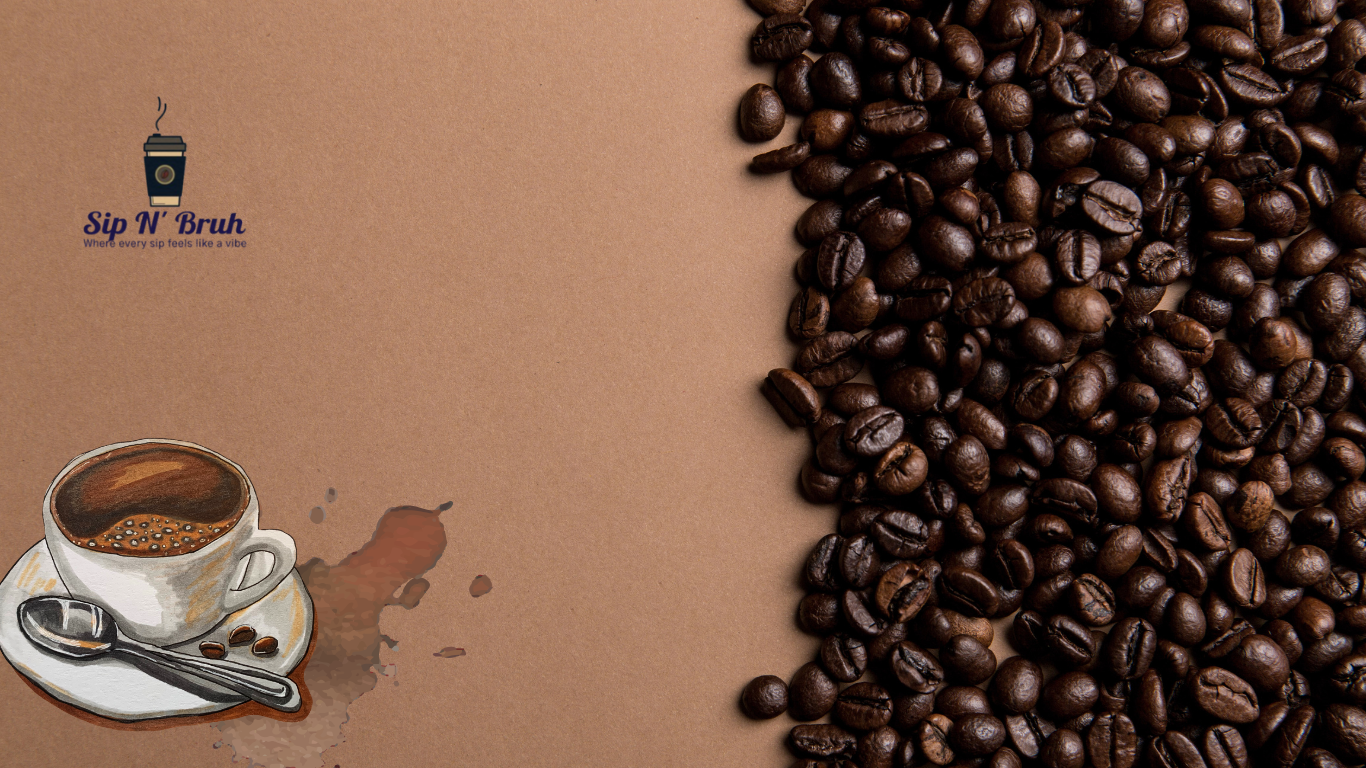
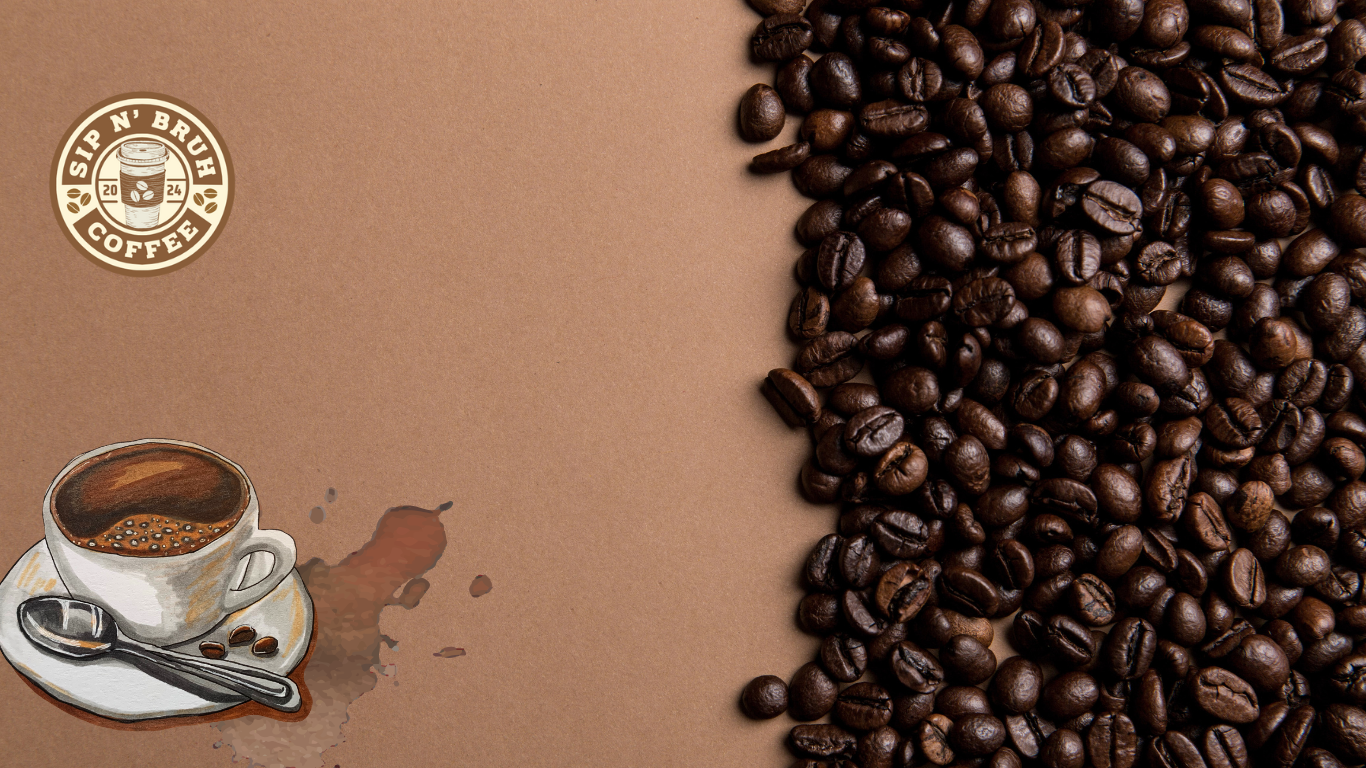
partially done with the menu

Changed region(s): [[0.0307, 0.0938, 0.1845, 0.375]]

diff --git a/menu.css b/menu.css
@@ -1,0 +1,157 @@
+* {
+  padding: 0;
+  margin: 0;
+  box-sizing: border-box;
+  font-family: "Poppins", serif;
+}
+
+body {
+  max-height: 100vh;
+  background-color: #e7e1d9;
+  overflow: hidden;
+}
+
+header {
+  position: absolute;
+  top: 0;
+  right: 0;
+}
+
+a {
+  text-decoration: none;
+}
+
+nav ul {
+  display: flex;
+  align-items: center;
+  justify-content: right;
+  list-style: none;
+  padding: 2rem 5rem;
+}
+
+nav ul li {
+  margin-right: 3rem;
+  position: relative;
+}
+
+nav ul li a {
+  color: #000;
+  font-weight: 700;
+  font-size: 1.5rem;
+}
+
+nav ul li::after {
+  content: "";
+  position: absolute;
+  bottom: 0;
+  left: 50%;
+  transform: translate(-50%);
+  width: 0%;
+  height: 3px;
+  border-radius: 2px;
+  background-color: #9d6d4d;
+  transition: all 500ms ease;
+}
+
+nav ul li:hover::after {
+  width: 100%;
+}
+
+nav ul li.active::after {
+  width: 100%;
+}
+
+main {
+  display: flex;
+}
+
+main section {
+  flex-basis: 50%;
+}
+
+main section:first-of-type > img {
+  display: block;
+  height: 100vh;
+  width: 100%;
+  object-fit: cover;
+}
+
+main section:last-of-type {
+  padding: 15rem 5rem;
+}
+
+section:last-of-type > div {
+  width: 90px;
+}
+
+section:last-of-type > div {
+  font-weight: 300;
+  font-size: 1.2rem;
+}
+
+section:last-of-type > div > p:first-of-type {
+  padding-left: 15px;
+}
+
+section:last-child > div > p:last-of-type {
+  text-align: right;
+  padding-right: 10px;
+}
+
+div.line {
+  width: 100%;
+  height: 0.0625rem;
+  background-color: #976a48;
+  transform: rotate(-30deg);
+}
+
+h1 {
+  font-size: 3.5rem;
+  font-family: "Playfair Display", serif;
+  font-weight: 900;
+  margin-block: 2rem;
+}
+
+section:last-child > p {
+  font-weight: 300;
+  line-height: 2rem;
+}
+
+button {
+  background-color: #be986d;
+  border: none;
+  padding: 1rem 3rem;
+  font-weight: 700;
+  text-transform: uppercase;
+  margin-top: 3rem;
+  transition: all 500ms ease;
+}
+
+button:hover {
+  cursor: pointer;
+  background-color: #000;
+  color: #fff;
+}
+
+.btn-container {
+  position: absolute;
+  bottom: 0;
+  right: 0;
+  display: flex;
+  gap: 2rem;
+  padding: 2rem 5rem;
+}
+
+.btn-container button {
+  background-color: transparent;
+  padding: 0;
+}
+
+.btn-container button:hover {
+  cursor: pointer;
+  transform: scale(1.2);
+}
+
+#prev:hover {
+  transform: scale(1.1);
+}

diff --git a/menu.html b/menu.html
@@ -1,0 +1,55 @@
+<!DOCTYPE html>
+<html lang="en">
+  <head>
+    <meta charset="UTF-8" />
+    <meta name="viewport" content="width=device-width, initial-scale=1.0" />
+    <title>Sip N' Bruh</title>
+    <link rel="preconnect" href="https://fonts.googleapis.com" />
+    <link rel="preconnect" href="https://fonts.gstatic.com" crossorigin />
+    <link
+      href="https://fonts.googleapis.com/css2?family=Playfair+Display:ital,wght@0,400..900;1,400..900&family=Poppins:ital,wght@0,100;0,200;0,300;0,400;0,500;0,600;0,700;0,800;0,900;1,100;1,200;1,300;1,400;1,500;1,600;1,700;1,800;1,900&display=swap"
+      rel="stylesheet"
+    />
+    <link rel="stylesheet" href="menu.css" />
+    <link rel="shortcut icon" href="./assets/logo.png" type="image/x-icon" />
+  </head>
+  <body>
+    <header>
+      <nav>
+        <ul>
+          <li><a href="./index.html">Home</a></li>
+          <li class="active"><a href="./menu.html">Menu</a></li>
+          <li><a href="./merchandise.html">Merchandise</a></li>
+          <li><a href="./about.html">About</a></li>
+        </ul>
+      </nav>
+    </header>
+    <main>
+      <section>
+        <img src="./assets/menu/coffee1.PNG" alt="coffee flavor image" />
+      </section>
+      <section>
+        <div>
+          <p id="current-flavor">01</p>
+          <div class="line"></div>
+          <p>06</p>
+        </div>
+        <h1>Cookies & Cream</h1>
+        <p>
+          Lorem Ipsum is simply dummy text of the printing and typesetting
+          industry. Lorem Ipsum has been the industry's standard dummy text ever
+          since the 1500s, when an unknown printer took a galley of type.
+        </p>
+        <button>order now</button>
+      </section>
+    </main>
+    <div class="btn-container">
+      <button id="prev">
+        <img src="assets/menu/prev.png" alt="previous flavor" />
+      </button>
+      <button id="next">
+        <img src="./assets/menu/next.png" alt="next flavor" />
+      </button>
+    </div>
+  </body>
+</html>

diff --git a/index.html b/index.html
@@ -11,7 +11,7 @@
       rel="stylesheet"
     />
     <link rel="stylesheet" href="index.css" />
-    <link rel="shortcut icon" href="./assets/favicon.png" type="image/x-icon" />
+    <link rel="shortcut icon" href="./assets/logo.png" type="image/x-icon" />
   </head>
   <body>
     <video id="bg-video" src="./assets/home/bg.mp4" autoplay loop muted></video>
@@ -25,16 +25,34 @@
           <li class="text-link"><a href="about.html">About</a></li>
           <li class="icon-link">
             <a href="login.html"
-              ><img src="./assets/home/login.png" alt="login icon"
+              ><img src="./assets/home/login.png" alt="login icon" width="50px"
             /></a>
           </li>
         </ul>
       </nav>
     </header>
     <main>
-      <img src="./assets/home/logo.png" alt="sip n' bruh logo" />
+      <img src="./assets/logo.png" alt="sip n' bruh logo" />
       <h1>Sip N' Bruh</h1>
       <h2>Where every sip feels like a vibe</h2>
+      <a href="menu.html">
+        View Menu
+        <svg
+          xmlns="http://www.w3.org/2000/svg"
+          width="60"
+          height="60"
+          viewBox="0 0 60 60"
+          fill="none"
+        >
+          <path
+            d="M30 13.725V51.225M19.375 21.225H13.75M21.25 28.725H13.75M55 41.85V11.675C55 8.675 52.55 6.45 49.575 6.7H49.425C44.175 7.15 36.2 9.825 31.75 12.625L31.325 12.9C30.6 13.35 29.4 13.35 28.675 12.9L28.05 12.525C23.6 9.75 15.65 7.1 10.4 6.675C7.425 6.425 5 8.675 5 11.65V41.85C5 44.25 6.95 46.5 9.35 46.8L10.075 46.9C15.5 47.625 23.875 50.375 28.675 53L28.775 53.05C29.45 53.425 30.525 53.425 31.175 53.05C35.975 50.4 44.375 47.625 49.825 46.9L50.65 46.8C53.05 46.5 55 44.25 55 41.85Z"
+            stroke="black"
+            stroke-width="1.5"
+            stroke-linecap="round"
+            stroke-linejoin="round"
+          />
+        </svg>
+      </a>
     </main>
   </body>
 </html>

diff --git a/index.css b/index.css
@@ -38,7 +38,7 @@ nav ul {
   align-items: center;
   justify-content: right;
   list-style: none;
-  padding: 2rem 5rem;
+  padding: 1rem 2rem;
 }
 
 nav ul li {
@@ -88,7 +88,7 @@ main {
   flex-direction: column;
 }
 
-main img {
+main > img {
   margin-top: 2rem;
   width: 250px;
 }
@@ -105,4 +105,37 @@ main h2 {
   color: #fef6d9;
   font-size: 40px;
   letter-spacing: 3px;
+}
+
+main a {
+  background-color: white;
+  color: black;
+  border-radius: 20rem;
+  border: 1px solid white;
+  display: flex;
+  align-items: center;
+  justify-content: center;
+  padding: 0.3rem 3rem;
+  margin-top: 2rem;
+  gap: 1rem;
+  font-size: 1.2rem;
+  font-weight: 700;
+  transition: all 500ms ease;
+}
+
+main a > svg {
+  width: 40px;
+}
+main a > svg path {
+  transition: all 1s ease;
+}
+
+main a:hover > svg path {
+  stroke: white;
+}
+
+main a:hover {
+  cursor: pointer;
+  background-color: black;
+  color: white;
 }

diff --git a/login.html b/login.html
@@ -4,7 +4,7 @@
     <meta charset="UTF-8" />
     <meta name="viewport" content="width=device-width, initial-scale=1.0" />
     <title>Sip N' Bruh</title>
-    <link rel="shortcut icon" href="./assets/favicon.png" type="image/x-icon" />
+    <link rel="shortcut icon" href="./assets/logo.png" type="image/x-icon" />
     <link rel="preconnect" href="https://fonts.googleapis.com" />
     <link rel="preconnect" href="https://fonts.gstatic.com" crossorigin />
     <link
